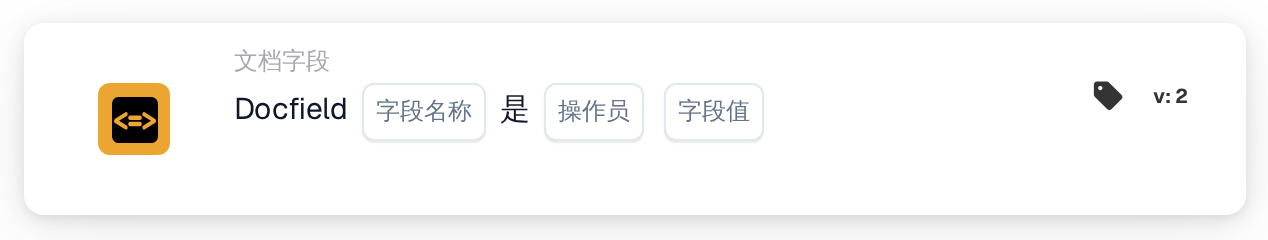
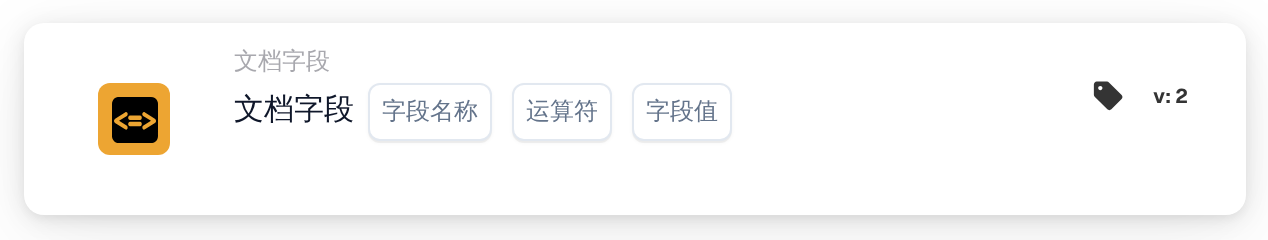
[Documentation_Workflow_Cards] [DRFS-881] document new docfield operators is one of and regex

diff --git a/public_docs/administration-and-setup/workflow/cards-overview/and/document-field/docfield-is.md b/public_docs/administration-and-setup/workflow/cards-overview/and/document-field/docfield-is.md
@@ -28,39 +28,94 @@
 
 ## **用途：**
 
-此工作流卡片旨在通过将指定文档字段的值与参考值或条件进行比较来自动执行操作。它可根据文档数据验证结果，在工作流中实现动态且准确的决策。
+此卡片将文档的一个字段与您在卡片上输入的值进行比较。可根据字段值将文档送往不同的路径，例如为大额发票安排第二次审批，或为少数几家供应商设置专门的路径。
+
+卡片显示为：**文档字段** [Field Name] [Operator] [Field Value]。
 
 ## **卡片组件：**
 
-1. **字段名称**
-   * **描述：** 指定要评估的文档字段名称。
-   * **详情：** 必须与文档中该字段的确切标识符一致。
-2. **运算符**
-   * **描述：** 定义字段值与参考值之间要执行的比较类型。
-   * **选项：**
-     * **等于 (=)：** 检查字段值是否与参考值匹配。
-     * **不等于 (≠)：** 确保字段值与参考值不同。
-     * **大于 (>)：** 确认字段值大于参考值。
-     * **大于或等于 (≥)：** 验证字段值是否等于或大于参考值。
-     * **小于 (<)：** 检查字段值是否小于参考值。
-     * **小于或等于 (≤)：** 确保字段值小于或等于参考值。
+1. **字段名称**（Field Name）
+   * 要检查的文档字段，从该文档类型的字段中选择。
+2. **运算符**（Operator）
+   * 字段值与 **Field Value** 的比较方式。哪些运算符有意义取决于字段类型，参见下文的 **运算符**。
+3. **字段值**（Field Value）
+   * 用于比较的值。根据运算符的不同，可以是单个值、逗号分隔的列表或正则表达式。
 
-## **功能：**
+## **运算符：**
 
-* **条件评估：** 系统会检查文档字段的值相对于其关联列，是否满足运算符和参考值指定的比较条件。
-* **操作执行：**
-  * **条件为真：**\
-    如果文档字段的值满足指定条件（例如，等于参考值），系统会触发关联操作。这些操作可包括更新记录、推进工作流或生成通知。
-  * **条件为假：**\
-    如果文档字段的值不满足指定条件，则根据工作流配置执行其他操作，或不执行任何操作。
+| 运算符 | 满足条件 | 字段类型 |
+| --- | --- | --- |
+| **等于** (=) | 字段值等于 Field Value | 文本、数字、金额、日期 |
+| **不等于** (≠) | 字段值与 Field Value 不同 | 文本、数字、金额、日期 |
+| **大于** (>) | 字段值大于 Field Value | 数字、金额、日期 |
+| **大于或等于** (≥) | 字段值大于或等于 Field Value | 数字、金额、日期 |
+| **少于** (<) | 字段值小于 Field Value | 数字、金额、日期 |
+| **小于或等于** (≤) | 字段值小于或等于 Field Value | 数字、金额、日期 |
+| **是以下之一** | 字段值等于逗号分隔列表中的某一项 | 文本 |
+| **不是以下之一** | 字段值不等于列表中的任何一项 | 文本 |
+| **匹配正则表达式** | 在字段值中找到该正则表达式 | 文本、数字、金额、日期 |
+| **不匹配正则表达式** | 在字段值中找不到该正则表达式 | 文本、数字、金额、日期 |
+
+此卡片不支持布尔字段（复选框）。对此类字段请使用 **Checkbox is checked**。
+
+### 文本字段上的等于和不等于
+
+比较文本时不区分大小写，空格与下划线视为相同：`Acme Freight` 等于 `acme_freight`。开头和结尾的空格会被忽略。
+
+### 是以下之一 和 不是以下之一
+
+使用这两个运算符可以一次将文本字段与多个值进行比较，例如一份供应商 ID 列表。
+
+* 以逗号分隔的列表形式输入这些值：`40321,40322,40388`。
+* 字段值必须与某一项完全相等。部分值不算匹配：`4032` 不在 `40321,40322,40388` 之中，更长的值（例如 `403210`）也不在其中。
+* 大小写无关，空格与下划线视为相同。各项前后的空格会被忽略，空项（例如 `a,,b` 中的空项）会被跳过。
+* 如需在某个值中使用逗号，请写成 `\,`。`Acme Freight\, LLC,Riverside Supply` 是包含两项的列表：`Acme Freight, LLC` 和 `Riverside Supply`。
+* 空的字段值不在任何列表中。此时 **是以下之一** 不满足，**不是以下之一** 满足。
+* 这两个运算符仅适用于文本字段。用于数字、金额或日期字段时，或者列表中根本没有任何项（例如只有逗号）时，卡片会以错误结束。
+
+### 匹配正则表达式 和 不匹配正则表达式
+
+当需要由某种模式来决定时使用这两个运算符，例如“以……开头”或“仅由数字组成”。
+
+* **Field Value** 是 Python 语法的正则表达式。它会在字段值的任意位置进行查找：`Freight` 匹配 `Acme Freight, LLC`。
+* 使用 `^` 和 `$` 检查整个值：`^33` 表示“以 33 开头”，`^(40321|40322|40388)$` 表示“恰好是这些值中的一个”。
+* 模式区分大小写。以 `(?i)` 开头可忽略大小写：`(?i)freight` 也匹配 `Acme Freight, LLC`。
+* `^` 和 `$` 针对整个字段值。以 `(?m)` 开头可将它们应用于多行值的每一行。
+* 模式会完全按照您输入的内容使用。它不会被去除首尾空格，大小写也会保留，因此 `\D`（任何非数字字符）保持其含义，而仅由一个空格组成的模式会查找空格。
+* 在正则表达式中具有特殊含义的字符必须转义才能按字面匹配：`\(copy\)` 匹配文本 `(copy)`，而 `(copy)` 是一个分组，查找的是单词 `copy`。
+* 数字、金额和日期按其存储的文本进行匹配：金额 997.60 匹配 `^997\.60$`。
+* 空的字段值按空文本匹配，因此 `^$` 可以匹配它。
+* 无效的模式（例如缺少括号的 `(20`）会使卡片以错误结束。当模式对某个值的处理时间过长（超过 0.05 秒）时也是如此，这只会发生在构造不当的模式上，例如 `(a|aa)+$`。在这两种情况下，卡片既不算满足也不算不满足，因此 **不匹配正则表达式** 绝不会因为模式损坏而通过。
+
+## **卡片的工作方式：**
+
+* **文档中没有该字段：** 如果文档中没有所选名称的字段，无论使用哪个运算符，卡片都会停止并报告未找到该字段。
+* **条件满足：** Workflow 继续执行下一张卡片（在 Advanced Workflow 中，经由成功出口）。
+* **条件不满足：** Workflow 在此卡片处停止（在 Advanced Workflow 中，走条件未满足的出口）。
+* **错误：** 运算符与字段类型不符、缺少 Field Value、列表为空或模式不可用时，卡片会以错误结束。卡片日志会显示原因。
 
 ## **设置与配置：**
 
-* 用户选择相关文档的字段名称，并从下拉菜单中选择运算符。然后，用户指定参考字段值以完成配置。
+在 **Field Name** 中选择字段，在 **Operator** 中选择运算符，并在 **Field Value** 中输入值。对于数字和金额，请输入不带货币符号、使用小数点的值，例如 `1000.50`。
+
+如需在不等待文档的情况下试用某个配置，请在 Workflow Builder 中打开卡片菜单，选择 **Test Card**，选取一个文档，然后选择 **Test on Document**。卡片日志会显示字段值、运算符和结果。
+
+## **示例：**
+
+| 目标 | Field Name | Operator | Field Value | 文档上的字段值 | 结果 |
+| --- | --- | --- | --- | --- | --- |
+| 大额发票需要第二次审批 | 总金额 | 大于 | `10000` | 12500.00 | 满足 |
+| 为少数几家供应商设置路径 | 供应商 ID | 是以下之一 | `40321,40322,40388` | 40322 | 满足 |
+| | | | | 4032 | 不满足 |
+| 跳过名称中带逗号的供应商 | 供应商名称 | 不是以下之一 | `Acme Freight\, LLC` | Acme Freight, LLC | 不满足 |
+| 以 33 开头的订单号 | 订单号 | 匹配正则表达式 | `^33` | 33012 | 满足 |
+| | | | | 13301 | 不满足 |
+| 含字母的参考号 | 参考号 | 匹配正则表达式 | `\D` | AB-1204 | 满足 |
+| 发票副本 | 发票号 | 不匹配正则表达式 | `\(copy\)` | INV-1204 (copy) | 不满足 |
 
 ## **结论：**
 
-“DocField Comparison Validation”工作流卡片是一款功能强大的动态文档处理工具。通过根据字段比较结果自动执行操作，此卡片可简化工作流、提高准确性并支持数据驱动的决策。
+此卡片将单个文档字段与一个值、一个列表或一个模式进行比较。固定的值列表请使用 **是以下之一**，前缀或格式等模式请使用 **匹配正则表达式**。
 
 <!-- workflow-card-practical-example-20261021 -->
 

diff --git a/public_docs/administration-and-setup/workflow/masterclass/field-conditions.md b/public_docs/administration-and-setup/workflow/masterclass/field-conditions.md
@@ -62,7 +62,7 @@ AMOUNT 字段里的 `"1000.01"` 与文本字段里同样的字符并不等同。
 
 ## 卡片与示例参数
 
-这些值描述的是单张卡片的参数，而不是一份可导入的完整 workflow。请把 YOUR\_\* 替换为您自己的测试选择。隐藏的调用方 ID 由设计器管理。目录：Dev，DocFlow 2.10.38，2026 年 10 月 21 日；请在您自己的组织中确认可用版本与权限。
+这些值描述的是单张卡片的参数，而不是一份可导入的完整 Workflow。请把 YOUR\_\* 替换为您自己的测试选择。隐藏的调用方 ID 由设计器管理。目录：Dev，DocFlow 2.10.38，2026 年 10 月 21 日；请在您自己的组织中确认可用版本与权限。
 
 ### `condition_docfield_status` · v2
 
@@ -79,7 +79,7 @@ AMOUNT 字段里的 `"1000.01"` 与文本字段里同样的字符并不等同。
 
 | 参数 | 类型 / 选项 | 示例 |
 | --- | --- | --- |
-| `operator` | `eq / neq / gt / ge / lt / le` | `"gt"` |
+| `operator` | `eq / neq / gt / ge / lt / le / cont / not_cont / matches_regex / not_matches_regex` | `"gt"` |
 | `field_name` | `field_name:str` | `"total_amount"` |
 | `field_value` | `field_value:str` | `"1000"` |
 
